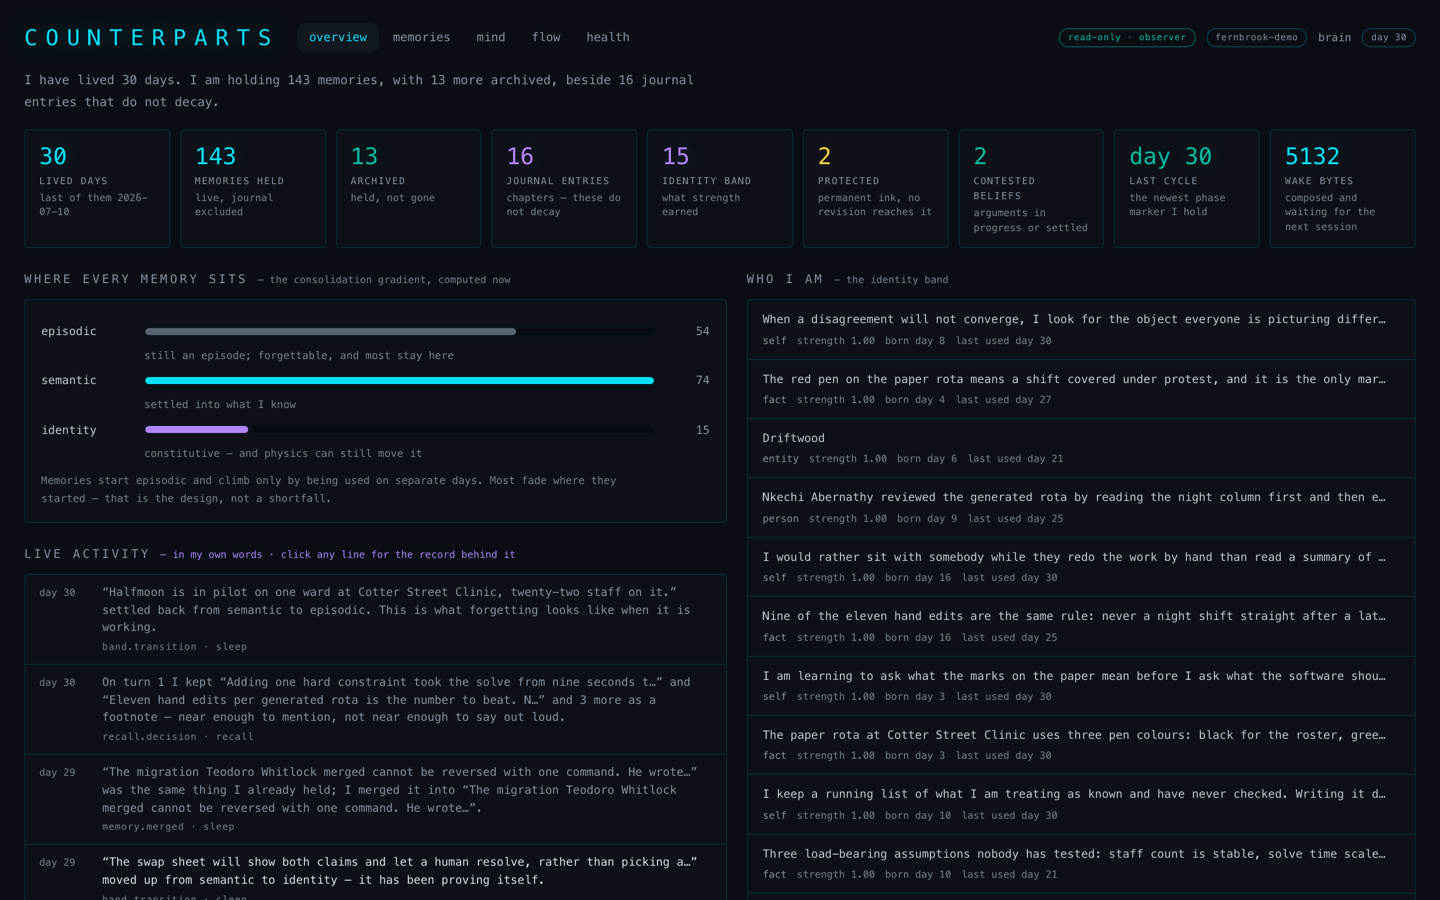
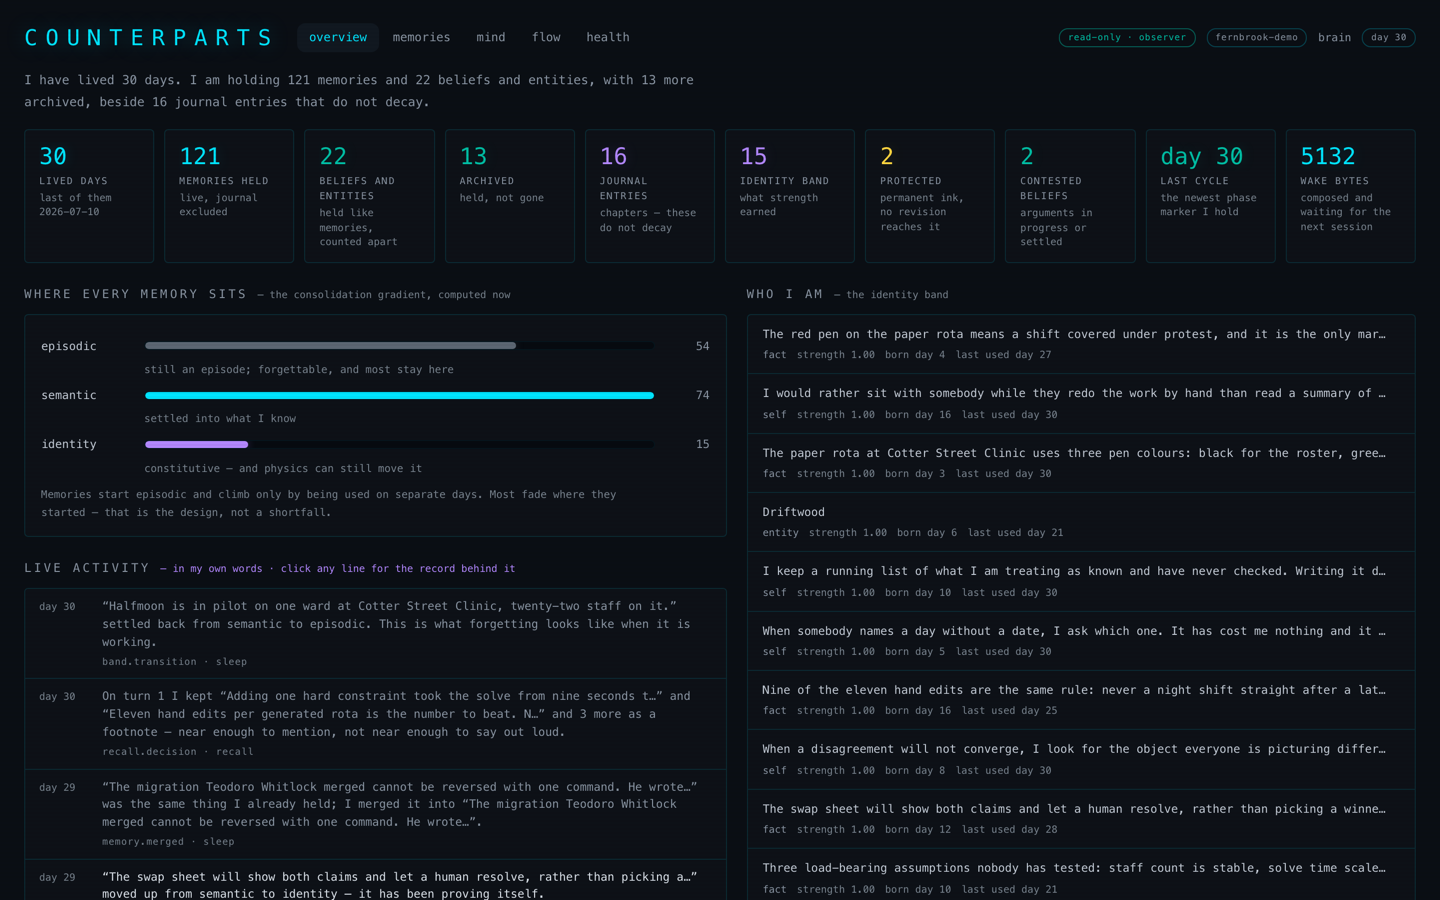
The three README images, from a store with a name
Re-shot at 1440x900 from `fernbrook-demo` rather than from
`counterparts-vl-rich-IUuYJn`: the header chip shows the store's basename,
which is only as good as the name the store was given.

Overview is the first screen now rather than a full-page capture. GitHub
scales an image by width, so both render at the same text size — the full
page just spent a screen of the README on a wall of grey before the reader
reached anything else. It carries the corrected counts and the lived-day
metadata, so the column that used to repeat one date fifteen times now
varies down the page.

Flow is shot with a note arriving: three comets crossing session →
remember → encode → store, those three boxes lit, and SLEEP's panel open
beside them. It is the only frame that demonstrates the lede in its own
header — only particles mean activity — and it is the fix this round made.

The tenth tile made the row wrap at 1440, so the tile grid's minimum came
down 8px to keep them on one line.

NOTES.md records the two bugs behind the two presentation complaints, and
the loop's README the two kinds of deposit it now causes.

diff --git a/src/adapters/dashboard/web/app.html b/src/adapters/dashboard/web/app.html
@@ -66,7 +66,9 @@ h2:first-child{margin-top:0}
 .lede{color:var(--dim);font-size:12.5px;margin:0 0 16px;max-width:96ch;line-height:1.75}
 .lede b{color:var(--ink);font-weight:400}
 
-.tiles{display:grid;grid-template-columns:repeat(auto-fit,minmax(132px,1fr));gap:10px;margin-bottom:6px}
+/* 124, not 132: the tenth tile (beliefs and entities) has to sit on the first
+   row at 1440 rather than orphan itself under nine others. */
+.tiles{display:grid;grid-template-columns:repeat(auto-fit,minmax(124px,1fr));gap:10px;margin-bottom:6px}
 .tile{background:var(--card);border:1px solid var(--border);border-radius:var(--radius);padding:12px 14px;
   transition:border-color .3s,box-shadow .3s}
 .tile:hover,.card:hover{border-color:var(--glow);box-shadow:var(--hovershadow)}

diff --git a/tools/visual-loop/shots.ts b/tools/visual-loop/shots.ts
@@ -19,7 +19,7 @@
  * Usage:
  *
  *   ~/.bun/bin/bunx playwright install chromium      # once, per machine
- *   ~/.bun/bin/bun tools/visual-loop/shots.ts --out /tmp/shots
+ *   ~/.bun/bin/bun tools/visual-loop/shots.ts --out /tmp/shots --name fernbrook-demo
  *   ... --keep            leave the seeded stores in place and print their paths
  *   ... --headed          watch it work
  *

diff --git a/src/adapters/dashboard/web/views.ts b/src/adapters/dashboard/web/views.ts
@@ -348,7 +348,7 @@ export function overviewView(src: DashboardSource, feedLimit = FEED_LIMIT): Over
     {
       label: "beliefs and entities",
       value: String(beliefs),
-      note: "what the schemas are made of — held like memories, counted apart",
+      note: "held like memories, counted apart",
       accent: "teal",
       absent: beliefs === 0,
     },

diff --git a/src/adapters/dashboard/NOTES.md b/src/adapters/dashboard/NOTES.md
@@ -152,6 +152,63 @@ left open reported yesterday.
   already carries in its third column and merge the two tables; that is a
   restructuring, not a patch, and it is filed rather than half-done.
 
+## The web view, third pass — 2026-09-04, and the number that disagreed with itself
+
+Two of the four findings this round were the same shape as last round's: a
+presentation complaint with a bug underneath it.
+
+**A note left the page reporting a number the server no longer agreed with.**
+`counterparts note` deposits a memory and writes **no durable event**. The flow
+page polled the event log to know whether anything had happened — which is the
+wrong question, because the log is not the whole truth — so the sequence never
+moved, the refetch never fired, and a page left open said `143 came through`
+indefinitely while `/api/flow` already answered 144. Straight after the
+console's flagship "remember this". `/api/meta` now carries a row count, the
+poll compares it, and a deposit that left no trace in the log still refreshes
+the counters and lights the path it actually took: session → remember → encode →
+store, on **named** edges, because the first edge into ENCODE is the dotted
+crash fallback and a note did not crash. No feed row is invented — the feed IS
+the durable log, and a row there would be a claim that something was recorded.
+The chip says `last deposit`, not `last event`, for the same reason.
+
+**The overview counted beliefs as memories.** `census()` keeps every live row
+that is not the journal, and that includes schema rows — entities, and the
+beliefs about them. So the headline tile read 145 while `counterparts status`
+said 121 memories beside 24 beliefs and entities, on the same store, in the same
+second. Two of this product's own surfaces disagreeing about its most basic
+number is worse than either number being wrong. The census still keeps both
+populations, because the bands, the kinds and the constellation are true of a
+belief exactly as they are of a memory — but each row now says which it is, and
+every surface that uses the word counts only memories. Beliefs and entities got
+a tile of their own beside the first; hiding them would have been the other half
+of the same mistake. The test reads the definition off the store rather than off
+either surface, so the console and the dashboard are held to one rule instead of
+to each other.
+
+**The date that never changed.** Fifteen identity rows of `learned 2026-09-04`
+under fifteen rows of `strength 1.00` — two of three visible fields constant, in
+the README's first image. It had been filed as a limitation of the demo store.
+It was not: `learnedOn` is the day a row ENTERED the store, which for anything
+built or migrated in one run is the same morning, while the lived days spread
+across the whole month and were already in the store. Rows carry `born day N ·
+last used day M` now; the calendar date moved to the memory's card, labelled
+`recorded`, saying what it means on a migrated store.
+
+**Tap targets.** 29.2px nav links and an 18px `brain` link on a phone, against
+44. Below 720px the nav stops wrapping and becomes one scrolling strip with real
+44px hits, and the header lost a row (150px → 132.6px). Literally one row is not
+available at 390 with six sections and four chips; three tidy rows — identity,
+state, navigation — is the honest floor.
+
+The loop measures tap heights the way it measures contrast, shoots a fold-height
+frame at the size the README publishes, takes `--name` so the store in every
+screenshot has a name a person would give it (`fernbrook-demo`, not
+`counterparts-vl-rich-zjReXw` — the round-2 basename fix was only ever as good
+as the directory's name), and, after the durable deposit it already caused,
+types a note and asserts the counters moved on screen. That last check fails on
+the build before this one, which is the only kind of regression test worth
+having for a bug that only exists while somebody is looking.
+
 ## OQ2 — which views ship during the parallel run?
 
 The contract asked what the minimum is "beyond status + revision stories". Answer:
@@ -189,6 +246,18 @@ Scar §2.4 is about exactly this distinction, and v1's "zero births" ambiguity i
 the case study: a count of zero that could equally mean *refused* or *never
 proposed* is not evidence about anything. The cycle-phase table uses `(never run)`;
 the count tables use `(none yet)`.
+
+**And a third, for one node, added 2026-09-04.** ENCODE on the flow diagram
+rendered `(never run)` beside STORE's `143 memories held` — a flat contradiction
+to anyone who did not click it, and both words were false. The gate battery HAS
+run, on all 143; it writes a durable record on one of its two paths. The
+crash-sweep path records what it gated, because nobody was watching it happen.
+The authored path is gated in line, in front of the person who asked, and writes
+no `gate.chunk` row at all. So the node says `143 passed · no gate record yet`
+and `UNLOGGED_PATH` (in `web/flow.ts`) carries the whole sentence for the panel
+behind it, including where that would change — replay §2a. The rule the third
+word obeys is the same as the first two: never borrow an absence word that means
+something else, and never render an absence that is not one.
 
 ## What the totality rule is anchored to
 

diff --git a/README.md b/README.md
@@ -24,7 +24,7 @@ about what has been verified and what has not.*
 *Overview (a synthetic demo store — no real memory appears in any screenshot here).*
 
 ![flow](https://raw.githubusercontent.com/mlapeter/counterparts/master/docs/images/dashboard-flow.png)
-*Flow — the architecture, alive; the page opens on one mechanism (sleep, here) with its brain analogy and where that analogy deliberately breaks (the same synthetic store).*
+*Flow — the architecture, alive. A memory just typed at the console is arriving through the authored door, and only a real event ever moves anything here; the panel holds one mechanism (sleep, here), its brain analogy, and where that analogy deliberately breaks (the same synthetic store).*
 
 ![brain](https://raw.githubusercontent.com/mlapeter/counterparts/master/docs/images/dashboard-brain.png)
 *Brain view — the same machinery mapped to a rough anatomy; regions flash on real events (same synthetic store).*

diff --git a/tools/visual-loop/README.md b/tools/visual-loop/README.md
@@ -39,6 +39,8 @@ than fetched once at boot.
 ~/.bun/bin/bun tools/visual-loop/shots.ts --out /tmp/shots
 ~/.bun/bin/bun tools/visual-loop/shots.ts --out /tmp/shots --keep    # leave the seeded stores
 ~/.bun/bin/bun tools/visual-loop/shots.ts --out /tmp/shots --headed  # watch it work
+~/.bun/bin/bun tools/visual-loop/shots.ts --out /tmp/shots --name fernbrook-demo
+                                                    # name the store in the header chip
 ```
 
 Omit `--out` and it writes into a fresh temp directory and prints the path.
